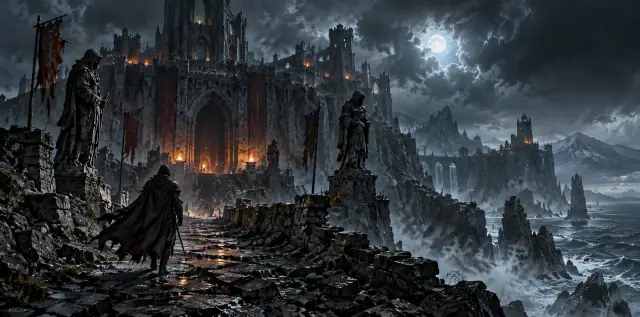
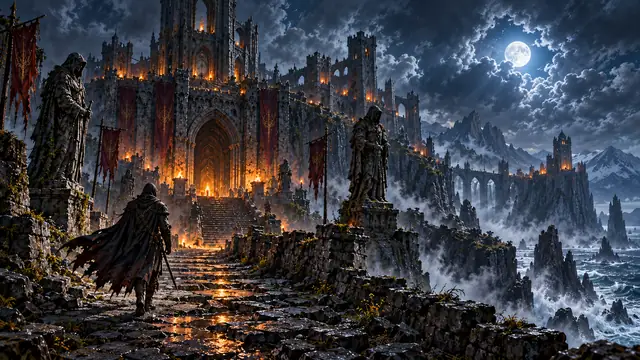
feat: new Brunami, Dungeon Master and tavern art
Replace the Brunami, wizard (now portrait 1122x1402, matching the 4:5
frame) and tavern images with the owner's art, regenerate the social
preview from the new tavern, and update intrinsic sizes and srcset.

Claude-Session: https://claude.ai/code/session_01Gej4mZFaNFg36D7PjdE3Re

diff --git a/index.html b/index.html
@@ -120,10 +120,10 @@
             <img
               class="home-dm__portrait-image"
               src="assets/wizard.webp"
-              srcset="assets/wizard-640.webp 640w, assets/wizard-960.webp 960w, assets/wizard.webp 1536w"
+              srcset="assets/wizard-640.webp 640w, assets/wizard-960.webp 960w, assets/wizard.webp 1122w"
               sizes="(max-width: 540px) 100vw, (max-width: 900px) 100vw, 480px"
-              width="1536"
-              height="1024"
+              width="1122"
+              height="1402"
               alt="Sombrero de mago, gafas y d20 sobre una mesa de taberna"
               loading="lazy"
               decoding="async">
@@ -247,11 +247,11 @@
                 <div class="home-worlds__card-media">
                   <img
                     src="assets/brunami.webp"
-                    srcset="assets/brunami-640.webp 640w, assets/brunami-960.webp 960w, assets/brunami.webp 1781w"
+                    srcset="assets/brunami-640.webp 640w, assets/brunami-960.webp 960w, assets/brunami.webp 1672w"
                     sizes="(max-width: 540px) 100vw, (max-width: 900px) 50vw, 390px"
-                    width="1781"
-                    height="883"
-                    alt="Ilustración conceptual: ciudadela gótica junto al mar bajo la tormenta"
+                    width="1672"
+                    height="941"
+                    alt="Ilustración: ciudadela gótica con estandartes y antorchas junto a un mar embravecido bajo la luna"
                     loading="lazy"
                     decoding="async">
                 </div>

diff --git a/tasks/codex-r13.md b/tasks/codex-r13.md
@@ -1,0 +1,15 @@
+# Codex task R13 (trivial, index.html only)
+
+Repo root: C:\Users\lexsa\Desktop\proyectos\lichpol. Edit ONLY index.html. No commits.
+
+The owner supplied new art. Claude already replaced the files in assets/ (same names):
+- brunami.webp is now 1672x941 (was 1781x883); brunami-960 960x540, brunami-640 640x360.
+- wizard.webp is now PORTRAIT 1122x1402 (was 1536x1024); wizard-960 960x1200, wizard-640 640x800.
+- tavern*.webp and og-tavern.jpg replaced with identical dimensions: no markup change needed for them.
+
+Changes in index.html:
+1. Brunami card img: `srcset="assets/brunami-640.webp 640w, assets/brunami-960.webp 960w, assets/brunami.webp 1672w"`, `width="1672" height="941"`, alt `Ilustración: ciudadela gótica con estandartes y antorchas junto a un mar embravecido bajo la luna`.
+2. Dungeon Master img (.home-dm__portrait-image): `srcset="assets/wizard-640.webp 640w, assets/wizard-960.webp 960w, assets/wizard.webp 1122w"`, `width="1122" height="1402"`. Keep the alt and sizes.
+Nothing else.
+
+Report the exact before/after attributes.
